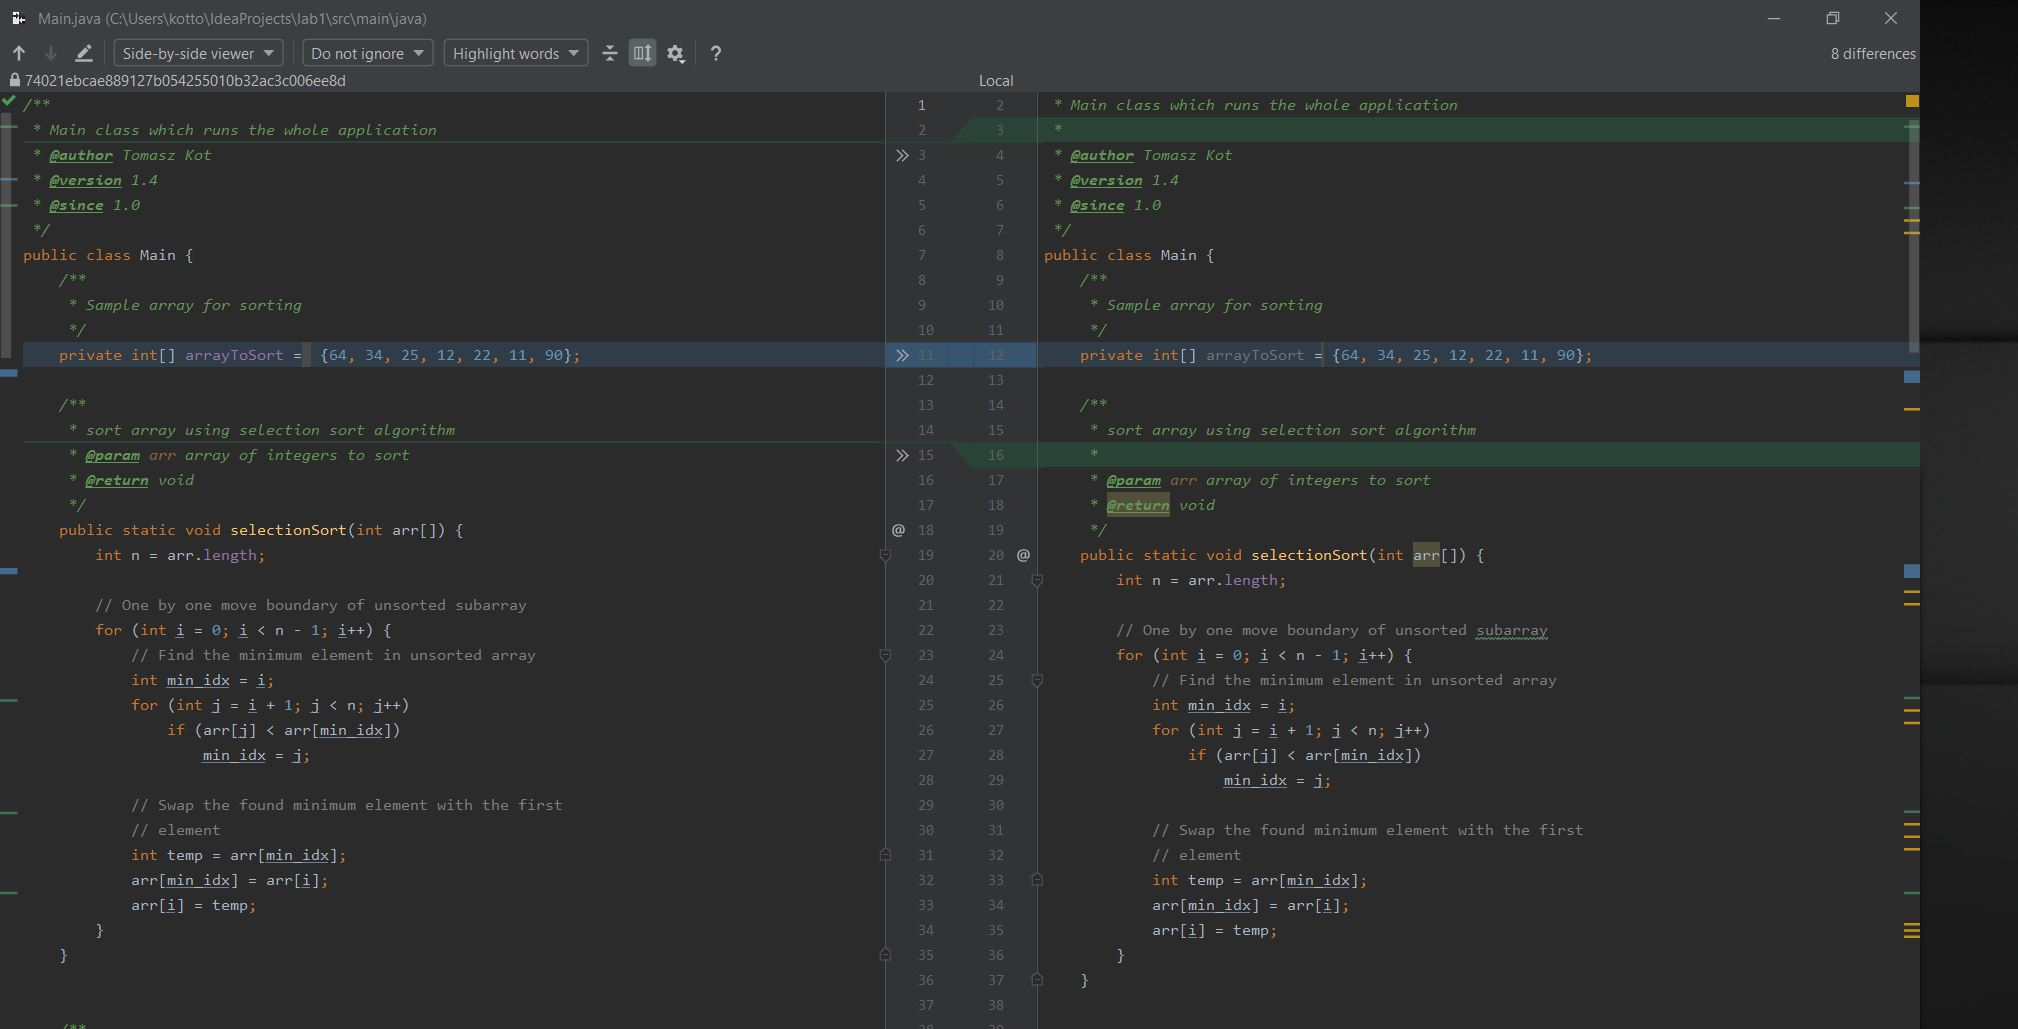
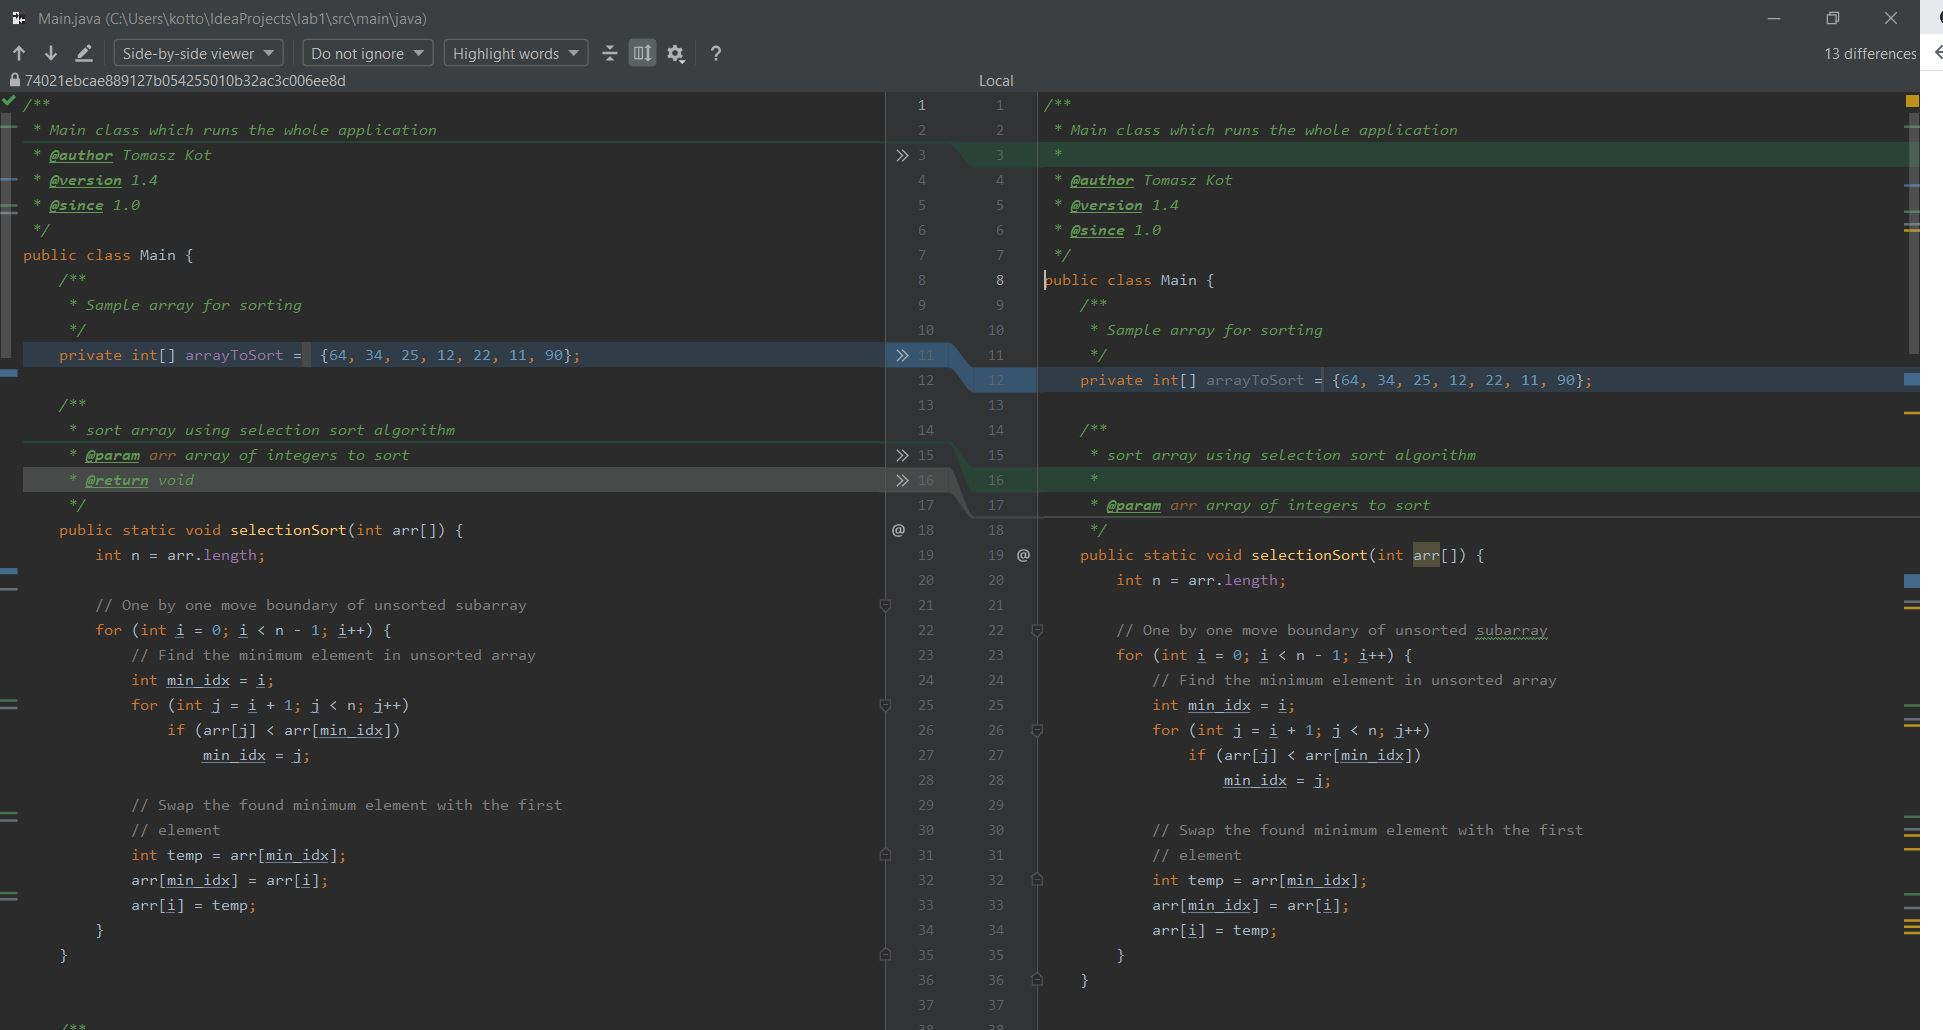
Refactor

diff --git a/src/main/java/Main.java b/src/main/java/Main.java
@@ -15,7 +15,6 @@ public class Main {
      * sort array using selection sort algorithm
      *
      * @param arr array of integers to sort
-     * @return void
      */
     public static void selectionSort(int arr[]) {
         int n = arr.length;
@@ -74,7 +73,6 @@ public class Main {
      * @param arr  array of integers to sort
      * @param low  the index of the first element of the array
      * @param high the index of last element of the array
-     * @return void
      */
     public static void quickSort(int arr[], int low, int high) {
         if (low < high) {
@@ -93,7 +91,6 @@ public class Main {
      * sort array using bubble sort algorithm
      *
      * @param arr array of integers to sort
-     * @return void
      */
     public static void bubbleSort(int arr[]) {
         int n = arr.length;
@@ -111,7 +108,6 @@ public class Main {
      * print array
      *
      * @param arr array of integers to print
-     * @return void
      */
     public static void printArray(int arr[]) {
         int n = arr.length;
@@ -124,7 +120,6 @@ public class Main {
      * runs the whole application
      *
      * @param args command line arguments
-     * @return void
      */
     public static void main(String[] args) {
         int arr1[] = {64, 34, 25, 12, 22, 11, 90};
